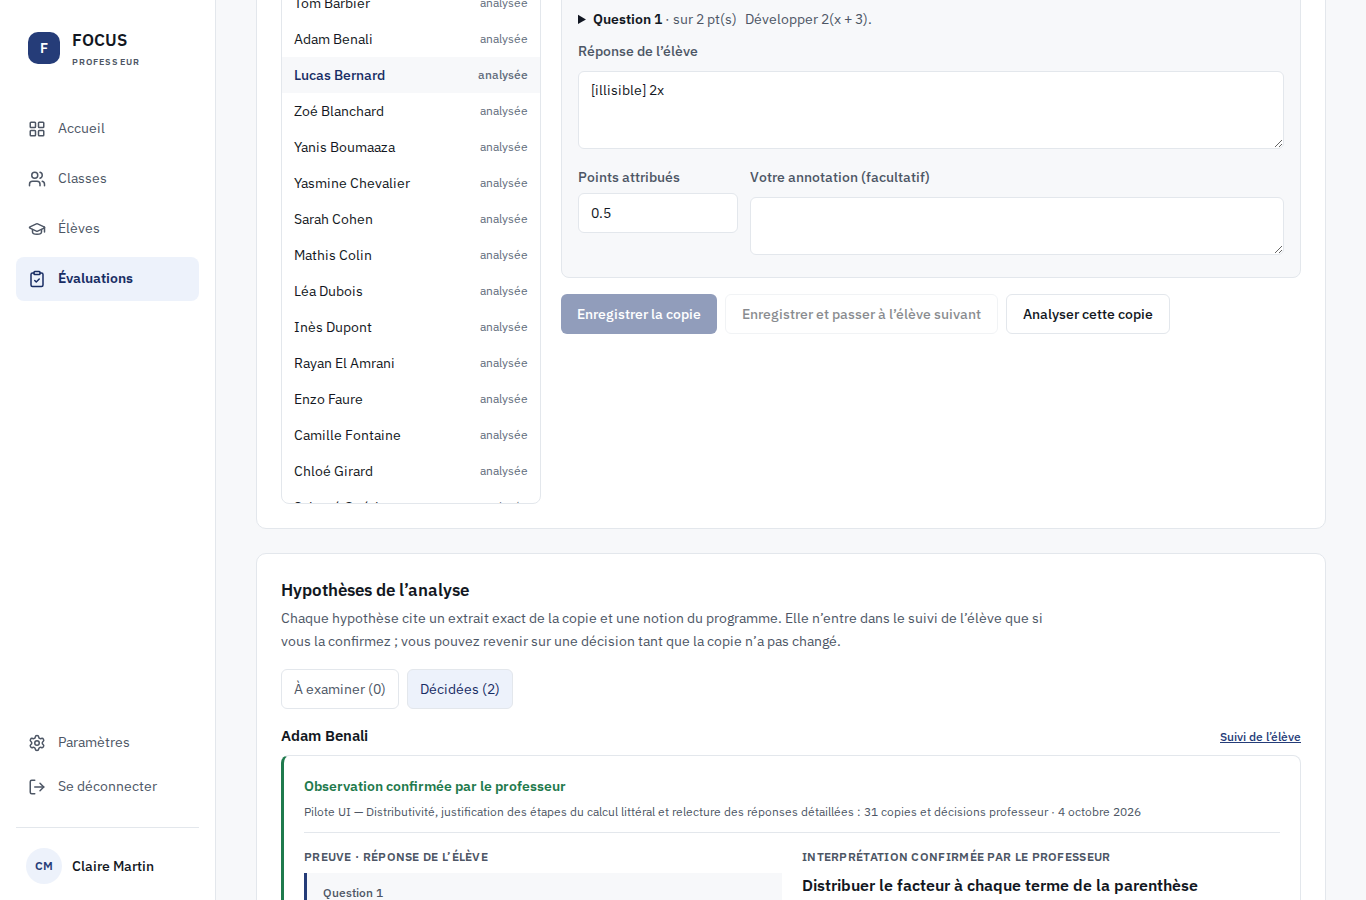
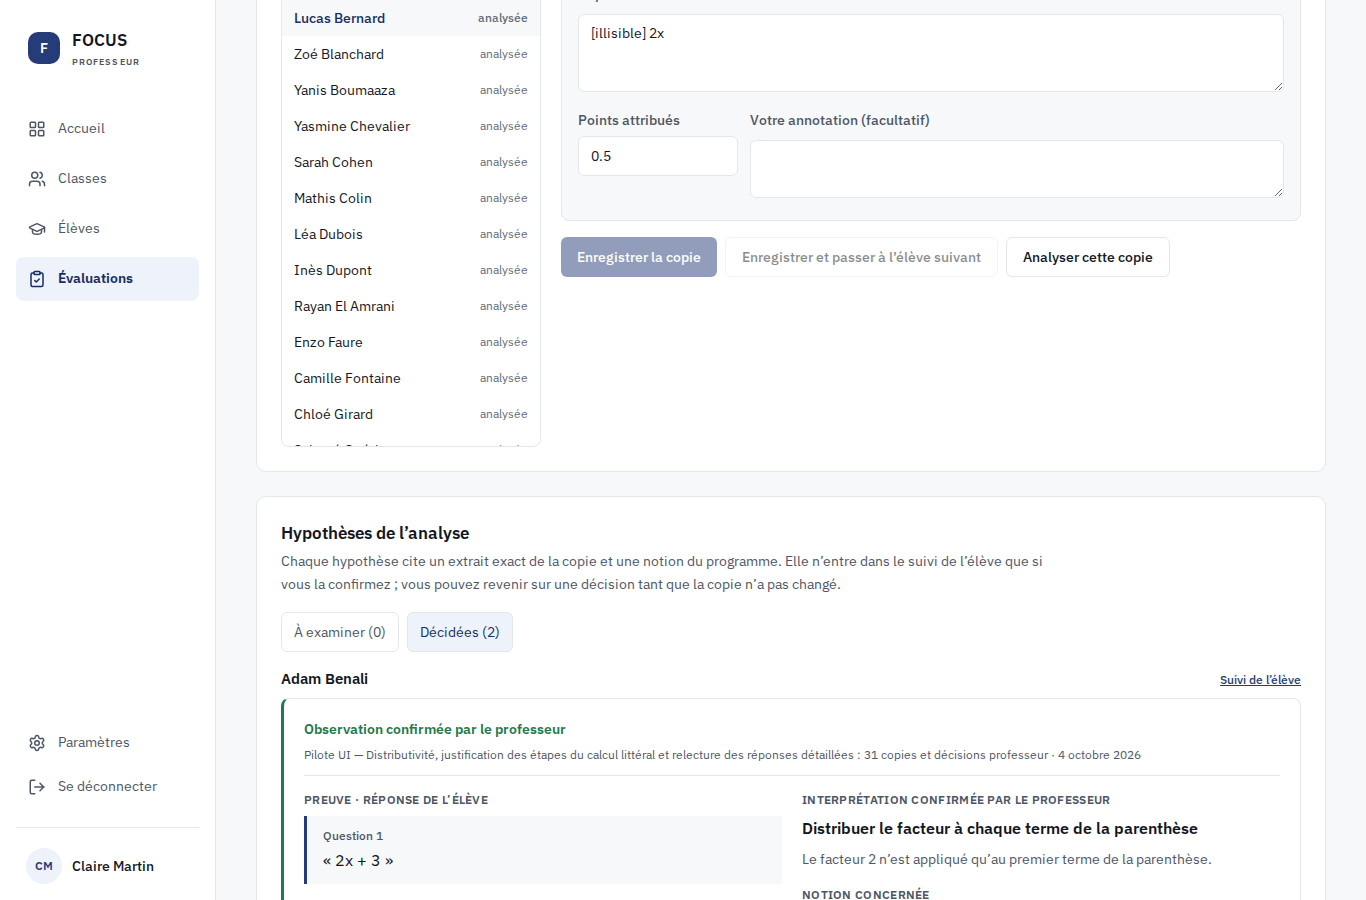
Keep result entry and evaluation management accessible
Open optional result entry when a competency is selected, retain accessible evaluation management outside the results disclosure, and keep the explicit fictitious-demo label.

All existing integration assertions remain unchanged. Verified 276 unit tests, 31 integration tests, 16 Chromium scenarios, production build, typecheck/lint and 50 axe scans.

diff --git a/app/(teacher)/app/evaluations/[id]/view.tsx b/app/(teacher)/app/evaluations/[id]/view.tsx
@@ -89,11 +89,6 @@ export default function EvaluationDetailPage({
                   Compléter ou corriger les résultats
                 </Link>
               </Button>
-              <DeleteEvaluationButton
-                evaluationId={id}
-                evaluationName={evaluation.name}
-                resultCount={analysis.recordedCount}
-              />
             </div>
           )}
           <dl className="grid gap-4 sm:grid-cols-3">
@@ -196,6 +191,19 @@ export default function EvaluationDetailPage({
           )}
         </div>
       </details>
+      {editableEvaluationIds.includes(id) && (
+        <footer className="flex flex-wrap items-center justify-between gap-3 border-t border-border pt-5">
+          <p className="max-w-2xl text-sm text-ink-soft">
+            Les évaluations dont des copies ont été analysées sont conservées
+            pour le suivi. Vous pouvez corriger leurs résultats.
+          </p>
+          <DeleteEvaluationButton
+            evaluationId={id}
+            evaluationName={evaluation.name}
+            resultCount={analysis.recordedCount}
+          />
+        </footer>
+      )}
     </div>
   );
 }

diff --git a/tests/e2e/teacher-ui-pilot.test.ts b/tests/e2e/teacher-ui-pilot.test.ts
@@ -643,9 +643,7 @@ test("sellability: honest demo contact, measurable pilot and unassigned teacher 
     await page.goto(origin);
     await noPageOverflow(page);
     await accessibilityCheck(page, "marketing");
-    await page
-      .getByText("Exemple illustratif · réponse et analyse fictives")
-      .waitFor();
+    await page.getByText("Données fictives de démonstration").waitFor();
     const contact = await page
       .getByRole("link", { name: /^Demander une démonstration/ })
       .first()

diff --git a/app/(marketing)/page.tsx b/app/(marketing)/page.tsx
@@ -79,7 +79,8 @@ export default function PresentationPage() {
             aria-labelledby="preview-caption"
           >
             <figcaption id="preview-caption">
-              Exemple illustratif · réponse et analyse fictives
+              Données fictives de démonstration · réponse et analyse
+              illustratives
             </figcaption>
             <div className={styles.proofTop}>
               <FileText size={18} aria-hidden="true" />

diff --git a/components/evaluations/evaluation-editor.tsx b/components/evaluations/evaluation-editor.tsx
@@ -416,7 +416,7 @@ export function EvaluationEditor({
 
       {readyToGrade && (
         <details
-          open={!!initialEvaluation}
+          open={!!initialEvaluation || selectedSkills.length > 0}
           className="rounded-[var(--radius-lg)] border border-border bg-surface p-5"
         >
           <summary className="cursor-pointer text-base font-semibold">

diff --git a/docs/handoffs/WORK_STATUS.md b/docs/handoffs/WORK_STATUS.md
@@ -2,7 +2,7 @@
 
 ## Git et périmètre
 
-- Branche : `work/ui-pilot-v1`, PR empilée sur `ccr-38fbcf41-7sndhr` (PR #8).
+- Branche : `work/ui-pilot-v1`, [PR #9](https://github.com/hamzaentreprise481-ctrl/focus-app/pull/9), empilée sur `ccr-38fbcf41-7sndhr` (PR #8).
 - SHA initial, enregistré avant modifications : `da19bcf8389cf4212327f0e9a17878161fc256ac`.
 - Base canonique intégrée après publication de Claude : `572251323b0c32c5cd4b9b7f9a8aa3c38f6e3956`.
 - `main` reste la V0. Cette branche ne constitue pas un déploiement autonome.
@@ -56,6 +56,7 @@ Composants : `work-queue`, `class-overview`, `evaluation-editor`, `assessment-de
 | `npm run typecheck`, `npm run lint` | Réussis |
 | `npm run build` | Build de production réussi |
 | `npm test` | 276 tests réussis |
+| `npm run test:routes` | 31 tests d’intégration existants réussis, assertions DB/Auth inchangées |
 | `npm run test:e2e` | 16 scénarios Chromium : 9 existants + 7 UI/pilote ; cinq sélecteurs UI existants suivent le libellé singulier corrigé (aucune assertion backend changée) |
 | Responsive | 1920, 1366, 1024, 820, 390 px ; 10 écrans Teacher par largeur |
 | Accessibilité | 50 scans axe-core WCAG 2 A/AA et 2.1 A/AA ; zéro violation automatique |
@@ -64,13 +65,15 @@ Composants : `work-queue`, `class-overview`, `evaluation-editor`, `assessment-de
 
 [ACCESSIBILITY_AUDIT.json](ACCESSIBILITY_AUDIT.json) contient les résultats et les contrôles qu’axe ne peut pas conclure automatiquement. Ce n’est pas une certification WCAG. Chromium est réellement lancé avec Playwright ; le daemon `agent-browser` n’a pas démarré dans cet environnement.
 
-Reproduction : `npm ci --ignore-scripts`, `npx playwright-core install chromium`, puis typecheck, lint, test, build et `FOCUS_E2E_SCREENSHOTS=/tmp/focus-ui-proof npm run test:e2e`.
+Reproduction : `npm ci --ignore-scripts`, `npx playwright-core install chromium`, puis typecheck, lint, test, build, test:routes et `FOCUS_E2E_SCREENSHOTS=/tmp/focus-ui-proof npm run test:e2e`. Pour les tests d’intégration, `PLAYWRIGHT_BROWSERS_PATH` doit pointer vers le répertoire où Chromium est installé, ou Chrome doit être présent sur le système. Dans ce conteneur, les tests utilisent Chromium Headless Shell via un chemin de lancement temporaire compatible avec le helper existant ; celui-ci est inchangé.
 
 Audit axe facultatif, sans dépendance produit ajoutée : installer `@axe-core/playwright` dans un répertoire temporaire ; passer son chemin absolu dans `FOCUS_UI_AXE_MODULE` et le fichier de sortie dans `FOCUS_UI_AXE_REPORT` lors de l’exécution de `tests/e2e/teacher-ui-pilot.test.ts`.
 
 Captures sélectionnées : [screenshots/README.md](screenshots/README.md). Toutes viennent du navigateur et de la pile fictive locale. Les dates futures des évaluations initiales sont des fixtures. Aucun seed de démonstration en production, tableau JS métier de substitution ni `localStorage` métier ajouté.
 
 ## Backend transmis à Claude
+
+La première CI distante a relevé trois incompatibilités UI : résultats encore repliés après sélection d’une compétence, suppression cachée dans le volet des résultats et libellé de démonstration changé. Corrections dans les vues : ouverture des résultats à la sélection, gestion en pied d’évaluation, mention « Données fictives de démonstration ». Aucun test d’intégration, assertion DB/Auth ou fichier CI modifié. Les 31 tests d’intégration sont réexécutés avec ces corrections.
 
 Aucune nouvelle anomalie backend reproductible confirmée par cette passe UI. Les pannes forcées sont des tests. Les points suivants sont **hérités du statut de Claude**, et non des constats personnels sur le live.
 
